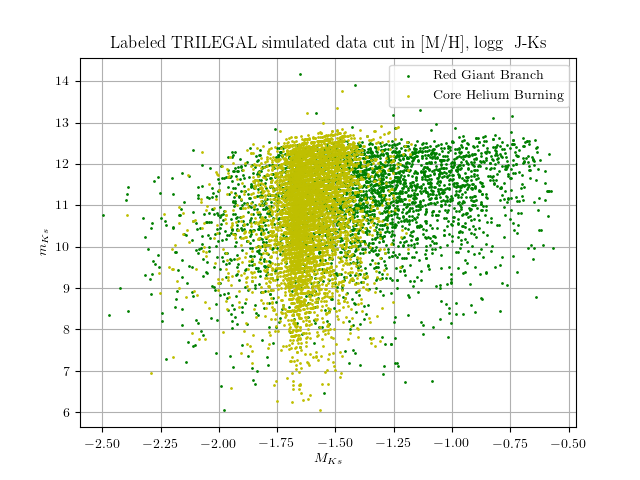
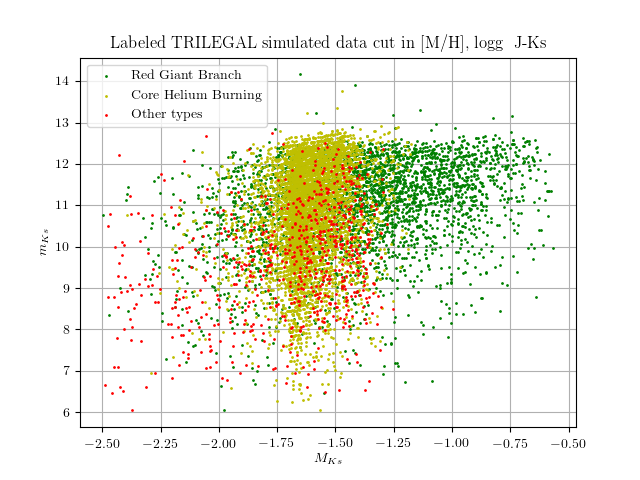
Mixture Model now succesfully runs using a new lorentzian model for the foreground for 2dmixmod.py

diff --git a/2dmixmod.py b/2dmixmod.py
@@ -25,8 +25,8 @@ import scipy.stats as stats
 import scipy.misc as misc
 
 import cMCMC
-import cLikelihood
 import cPrior
+import cLLModels
 
 def get_values():
     sfile = glob.glob('../Cuts_Data/cuts_MH_JKs_logg.txt')[0]
@@ -64,8 +64,46 @@ def get_errors(df, DR=2):
     plt.show()
     return df
 
+class cLikelihood:
+    '''A likelihood function that pulls in log likehoods from the LLModels class
+    '''
+    def __init__(self,_lnprior, _Model):
+        self.lnprior = _lnprior
+        self.Model = _Model
 
-def probability_plot(x, y, X, Y, d, bins):
+    #Likelihood for the 'foreground'
+    def lnlike_fg(self, p):
+        return self.Model.lorentzian_x(p)
+
+    def lnlike_bg(self, p):
+        return self.Model.gauss_x(p)
+
+    def lnprob(self, p):
+        Q = p[-1]
+
+        # First check the prior.
+        lp = self.lnprior(p)
+        if not np.isfinite(lp):
+            return -np.inf, None
+
+        # Compute the vector of foreground likelihoods and include the q prior.
+        ll_fg = self.lnlike_fg(p)
+        arg1 = ll_fg + np.log(Q)
+
+        # Compute the vector of background likelihoods and include the q prior.
+        ll_bg = self.lnlike_bg(p)
+        arg2 = ll_bg + np.log(1.0 - Q)
+
+        # Combine these using log-add-exp for numerical stability.
+        ll = np.nansum(np.logaddexp(arg1, arg2))
+
+        return lp + ll
+
+    def __call__(self, p):
+        logL = self.lnprob(p)
+        return logL
+
+def probability_plot(x, y, bins,x0, lor_x, gauss_x):
     #Plotting residuals with histograms
     left, bottom, width, height = 0.1, 0.35, 0.60, 0.60
     fig = plt.figure(1, figsize=(8,8))
@@ -86,41 +124,27 @@ def probability_plot(x, y, X, Y, d, bins):
     fig.suptitle('Probability functions to be applied to TRILEGAL data.')
 
     sax.hist2d(x, y,bins=bins, cmap='Blues_r', zorder=1000)
-    sax.contour(X,Y,d, cmap='copper',alpha=.5,label='KDE',zorder=1001)
+    sax.axvline(x0,c='r',zorder=1001)
 
     yax.hist(y,bins=bins,color='r',histtype='step',orientation='horizontal', normed=True)
     yax.set_ylim(sax.get_ylim())
     yax.legend(loc='best')
 
     xax.hist(x,bins=bins,histtype='step',color='r',normed=True)
+    xax2.scatter(x,lor_x,s=5,c='cornflowerblue',alpha=.5,label='Lorentzian in X')
+    xax2.scatter(x,gauss_x,s=5,c='orange',alpha=.5,label='Gaussian in X')
+    xax2.scatter(x,lor_x+gauss_x,s=1,c='green',alpha=.2,label='Combined')
+    xax2.set_ylim(0.)
+    xax.axvline(x0,c='r',label=r"$x0$")
+    h1, l1 = xax.get_legend_handles_labels()
+    h2, l2 = xax2.get_legend_handles_labels()
+    xax.legend(h1+h2, l1+l2)
+
 
     xax.set_xlabel(r"$M_{Ks}$")
     sax.set_ylabel(r"$m_{Ks}$")
 
     return fig
-
-
-class cModel:
-    '''Models for this run.'''
-    def __init__(self, _x, _y, _xerr):
-        self.x = _x
-        self.y = _y
-        self.xerr = _xerr
-
-    def fg(self, p):
-        b, sigrc, _, _, _ = p
-        sig = np.sqrt(sigrc**2 + self.xerr**2)
-        return -0.5 * ((self.x - b) / sig)**2 - np.log(sig)
-
-    def bg(self, p):
-        _, _, o, sigo, _ = p
-        sig = np.sqrt(sigo**2 + self.xerr**2)
-        val = np.abs(self.x).max() + np.abs(self.x).min()
-
-        xn = self.x + val
-        on = np.abs(o)
-
-        return -np.log(xn) -np.log(sig) - 0.5 * (np.log(xn) - on)**2/sig**2
 
 def save_library(df, chain,labels_mc):
     results = pd.DataFrame(columns=labels_mc)
@@ -190,6 +214,8 @@ if __name__ == '__main__':
                 'RR Lyrae variables', 'Cepheid Variables', 'Asymptotic Giant Branch','Supergiants']
     ax.scatter(x[labels==3], y[labels==3], c=c[3], s=1,zorder=1000,label=label[3])
     ax.scatter(x[labels==4], y[labels==4], c=c[4], s=1,zorder=1001,label=label[4])
+    sel = (labels!=3)&(labels!=4)
+    ax.scatter(x[sel], y[sel], c=c[0], s=1, zorder=1002, label='Other types')
     ax.set_xlabel(r"$M_{Ks}$")
     ax.set_ylabel(r"$m_{Ks}$")
     ax.set_title("Labeled TRILEGAL simulated data cut in [M/H], logg & J-Ks")
@@ -197,52 +223,43 @@ if __name__ == '__main__':
     ax.grid()
     ax.set_axisbelow(True)
     fig.savefig('Output/investigate_TRILEGAL.png')
-    plt.show()
     plt.close('all')
 
-####---BUILDING KDE AND OTHER PARAM
-    #Getting the KDE of the 2D distribution
-    xxyy = np.ones([len(x),2])
-    xxyy[:,0] = x
-    xxyy[:,1] = y
-    kde = stats.gaussian_kde(xxyy.T)
-
-    #Setting up a 2D meshgrid
-    size = 200
-    xx = np.linspace(x.min(),x.max(),size)
-    yy = np.linspace(y.min(),y.max(),size)
-    X, Y  = np.meshgrid(xx, yy)
-    d = np.ones([size, size])
-
-    #Calculating the KDE value for each point on the grid
-    for idx, i in tqdm(enumerate(xx)):
-        for jdx, j in enumerate(yy):
-            d[jdx, idx] = kde([i,j])
-
+####---EXAMINING & ESTIMATING PARAMETERS
     bins = int(np.sqrt(len(x)))
-    fig = probability_plot(x, y, X, Y, d, bins)
-    plt.show()
-    sys.exit()
+
+    # for sel in [labels!=4, labels==4]:
+    #     plt.hist(x[sel],histtype='step',bins=bins)
+    # plt.hist(x,histtype='step',bins=bins)
+    # plt.show()
+
+    n, b = np.histogram(x,bins=bins)
+    x0guess = b[np.argmax(n)]
 
 ####---SETTING UP MCMC
-    labels_mc = ["$b$", r"$\sigma(RC)$", "$o$", r"$\sigma(o)$", "$Q$"]
-    bounds = [(-1.7,-1.4), (0.01,0.2), (0.0,2.0), (0.1, 2.), (0, 1)]
-    start_params = np.array([-1.6, 0.1, 0.1, 1.0, 0.5])
-
+    labels_mc = ["$x0$", r"$\gamma$",\
+                r"$\mu$", r"$\sigma$",\
+                "$Q$"]
+    start_params = np.array([x0guess, 0.02,\
+                            -1.56, 0.1,\
+                            0.5])
+    bounds = [(-1.7,-1.6), (0.01,0.1),\
+                (-1.6,-1.5), (0.05, 0.15),\
+                (0, 1)]
 
 ####---CHECKING MODELS BEFORE RUN
     #Getting other probability functions
     ModeLLs = cLLModels.LLModels(x, y, labels_mc)
-    '''NEED TO CORRECTLY SET UP THE MODEL STRUCTURE FOR THIS'''
+    lor_x = np.exp(ModeLLs.lorentzian_x(start_params))
+    gauss_x = np.exp(ModeLLs.gauss_x(start_params))
 
-    fig = probability_plot(x, y, fy, X, Y, bins, '''REMAINDER''')
+    fig = probability_plot(x, y, bins, x0guess, lor_x, gauss_x)
     fig.savefig('Output/visual_models.png')
     plt.show()
     plt.close('all')
 
 ####---RUNNING MCMC
-    ModeLLs = cLLModels.LLModels(x, y, labels_mc)
-    lnpiror = cPrior.Prior(bounds)
+    lnprior = cPrior.Prior(bounds)
     Like = cLikelihood(lnprior, ModeLLs)
 
     ntemps, nwalkers = 4, 32
@@ -252,7 +269,7 @@ if __name__ == '__main__':
 
 ####---CONSOLIDATING RESULTS
     corner.corner(chain, bins=35, labels=labels_mc)
-    plt.savefig('../Output/corner.png')
+    plt.savefig('Output/corner.png')
     plt.show()
     plt.close()
 
@@ -262,38 +279,41 @@ if __name__ == '__main__':
 
 ####---PLOTTING RESULTS
     print('Plotting results...')
-    rc = np.median(chain[:,0])  #RC luminosity
-    err = np.std(chain[:,0])    #stddev on RC luminosity
-    rcy = np.linspace(6,15,10)  #Y-axis for RC plot
+    npa = chain.shape[1]
+    res = np.zeros(npa)
+    std = np.zeros(npa)
+    for idx in np.arange(npa):
+        res[idx] = np.median(chain[:,idx])
+        std[idx] = np.std(chain[:,idx])
 
-    rcx = np.linspace(rc-err,rc+err,10) #Setting up shading bounds
-    rcy1 = np.ones(rcx.shape) * y.max()
-    rcy2 = np.ones(rcx.shape) * 6
+    #Calling probability functions with results
+    lor_x = np.exp(ModeLLs.lorentzian_x(res))
+    gauss_x = np.exp(ModeLLs.gauss_x(res))
+
+    fig = probability_plot(x, y, bins, res[0], lor_x, gauss_x)
+    fig.savefig('Output/visual_result.png')
 
     # Plot mixture model results
     fig, ax = plt.subplots()
-    ax.errorbar(x, y, xerr=xerr, fmt=",k", ms=0, capsize=0, lw=1, zorder=999)
-    s = ax.scatter(x, y, marker="1", s=1, c=fg_pp, cmap="Blues_r", vmin=0, vmax=1, zorder=1000)
-    ax.fill_between(rcx,rcy1,rcy2,color='red',alpha=0.8,zorder=1001,label='RC Confidence Interval')
+    ax.grid()
+    ax.set_axisbelow(True)
+
+    col = ax.scatter(x, y, c=fg_pp,s=5,cmap='viridis')
+    ax.axvline(res[0],c='r',label=r"$\mu$")
     ax.set_title(r"Inlier Posterior Probabilities for TRILEGAL simulated data")
     ax.set_xlabel(r"$M_{Ks}$")
     ax.set_ylabel(r"$m_{Ks}$")
-    fig.colorbar(s,label='Inlier Posterior Probability')
+    fig.colorbar(col,label='Inlier Posterior Probability')
     ax.legend(loc='best',fancybox='True')
-
-    ax.grid()
-    ax.set_axisbelow(True)
-    plt.savefig('/home/oliver/Dropbox/Papers/Midterm/Images/C4_posteriors.png')
-    # plt.savefig('../Output/posteriors.png')
+    plt.savefig('Output/posteriors.png')
     plt.show()
     plt.close('all')
 
-    #Plot labeled results
+    sys.exit()
+    #Plotting identified results
     fig, ax = plt.subplots()
     ax.scatter(x[~mask][labels[~mask]==3], y[~mask][labels[~mask]==3], c=c[3], s=1,zorder=1000,label=label[3])
     ax.scatter(x[~mask][labels[~mask]==4], y[~mask][labels[~mask]==4], c=c[4], s=1,zorder=1000,label=label[4])
-    ax.errorbar(x[~mask], y[~mask], xerr=xerr[~mask], fmt=",k", ms=0, capsize=0, lw=1, zorder=999)
-    ax.fill_between(rcx,rcy1,rcy2,color='red',alpha=0.8,zorder=1001,label='RC Confidence Interval')
 
     ax.set_xlabel(r"$M_{Ks}$")
     ax.set_ylabel(r"$m_{Ks}$")
@@ -302,8 +322,7 @@ if __name__ == '__main__':
     ax.grid()
     ax.set_axisbelow(True)
 
-    plt.savefig('/home/oliver/Dropbox/Papers/Midterm/Images/C4_result.png')
-    # plt.savefig('../Output/dataset.png')
+    plt.savefig('../Output/dataset.png')
     plt.show()
     plt.close('all')
 

diff --git a/cLLModels.py b/cLLModels.py
@@ -1,0 +1,88 @@
+
+import numpy as np
+
+
+class LLModels:
+    '''Set of likelihood functions and models'''
+    def __init__(self, _x, _y, _labels):
+        self.x = _x
+        self.y = _y
+
+        '''This snippet of hard-code finds classifies the indices of the various
+        free parameters to allow for use of this class in multiple fitting codes.
+        '''
+        try: self.locmu = np.where(np.array(_labels)==r"$\mu$")[0][0]
+        except: pass
+        try: self.locsig = np.where(np.array(_labels)==r"$\sigma$")[0][0]
+        except: pass
+        try: self.locgamma = np.where(np.array(_labels)==r"$\gamma$")[0][0]
+        except: pass
+        try: self.locx0 = np.where(np.array(_labels)=="$x0$")[0][0]
+        except: pass
+
+    def gauss_x(self, p):
+        '''A simple gaussian in x space'''
+        mu = p[self.locmu]
+        sig = p[self.locsig]
+
+        #Calculating the likelihood in the X direction
+        lnLx = -0.5 * (((mu - self.x) / sig)**2 + 2*np.log(sig) +np.log(2*np.pi))
+        return lnLx
+
+    def lorentzian_x(self, p):
+        '''A simple lortenzian in x space'''
+        x0 = p[self.locx0]
+        gamma = p[self.locgamma]
+
+        #Calculating the likelihood in the X direction
+        lnLx = 2*np.log(gamma) - np.log(np.pi*gamma) - np.log((self.x-x0)**2 + gamma**2)
+        return lnLx
+
+
+####---ADDITIONAL MODELS FROM RGBb
+    def exp_x(self, p):
+        '''A normalised rising exponential probability in x space'''
+        lambd = p[self.loclambd]
+
+        #Calculating the likelihood in the X direction
+        A = lambd * (np.exp(lambd*self.x.max()) - np.exp(lambd*self.x.min()))**-1
+        lnLx = np.log(A) + lambd*self.x
+        return lnLx
+
+    def gauss_line_y(self, p):
+        '''A fit in y for a straight line with gaussian noise.'''
+        sigma = p[self.locsigma]
+        m = p[self.locm]
+        c = p[self.locc]
+
+        M = self.x * m + c
+        lnLy = -0.5 * (((self.y - M) / sigma)**2 + 2*np.log(sigma) + np.log(2*np.pi))
+        return lnLy
+
+    def bivar_gaussian(self, p):
+        '''A bivariate gaussian function for probability in two dimensions.'''
+        sigx = p[self.locsigx]
+        sigy = p[self.locsigy]
+        mx = p[self.locmx]
+        my = p[self.locmy]
+        rho = p[self.locrho]
+
+        lnLxy = -np.log(2*np.pi) - np.log(sigx*sigy) - 0.5*np.log(1-rho**2) -\
+                (1/(2*(1-rho**2))) * (\
+                (self.x - mx)**2/sigx**2 + (self.y - my)**2/sigy**2 -\
+                (2*rho*(self.x - mx)*(self.y - my))/(sigx * sigy))
+
+        return lnLxy
+
+    def return_bivar_sologauss(self, p):
+        '''Returns the single axis gaussians of the bivariate'''
+        sigx = p[self.locsigx]
+        sigy = p[self.locsigy]
+        mx = p[self.locmx]
+        my = p[self.locmy]
+        rho = p[self.locrho]
+
+        lnLx = -0.5 * (((mx - self.x) / sigx)**2 + 2*np.log(sigx) +np.log(2*np.pi))
+        lnLy = -0.5 * (((my - self.y) / sigy)**2 + 2*np.log(sigy) +np.log(2*np.pi))
+
+        return (np.exp(lnLx), np.exp(lnLy))

diff --git a/workbench.py b/workbench.py
@@ -94,6 +94,28 @@ def get_errors(df):
 
 
 if __name__ == '__main__':
+    x, y, labels, df = get_values()
+
+    fig, ax = plt.subplots()
+    ax2 = ax.twinx()
+    ax.hist(x, histtype='step',bins=int(np.sqrt(len(x))),normed=True)
+
+    for gamma in (np.arange(0.01,0.1,0.01)):
+        x0 = -1.67
+        lor = (1/np.pi*gamma) * ( gamma**2 / ((x-x0)**2 + gamma**2))
+
+        lnlor = 2*np.log(gamma) - np.log(np.pi*gamma) - np.log((x-x0)**2 + gamma**2)
+
+        ax2.scatter(x, np.exp(lnlor), s=5)
+    plt.show()
+
+
+
+
+
+    sys.exit()
+
+
     # vals = [-1.63,-1.59,-1.627,-1.626]
     # errs = [0.002,0.005,0.20,0.057]
     # noms = ['MixMod 2d', 'Mixmod 3d', 'RANSAC', 'Hawkins+17']
